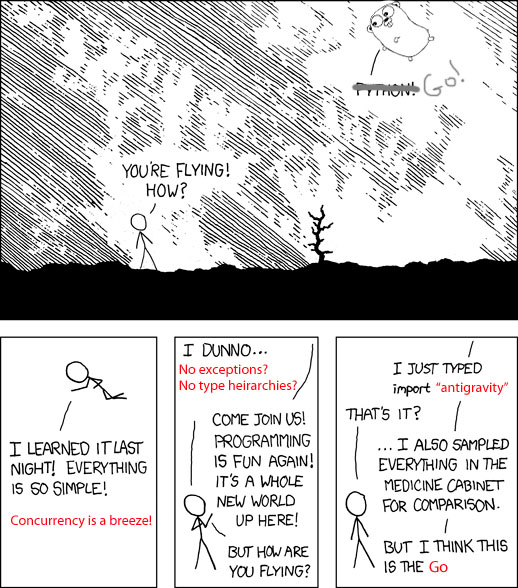
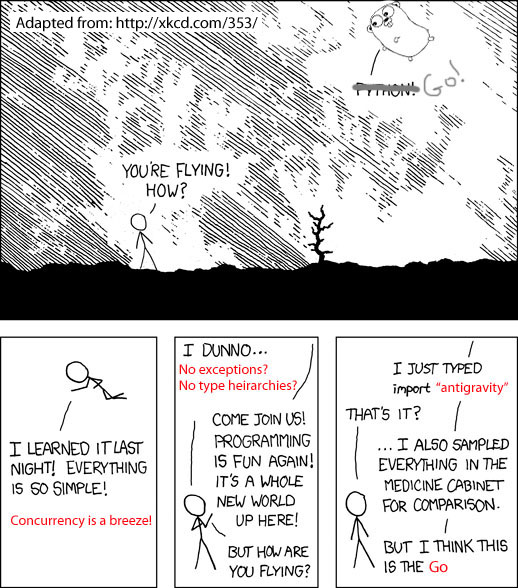
Feature complete migrating-from-pyton slides

Changed region(s): [[0.0, 0.0, 0.5251, 0.0612]]

diff --git a/migrating-from-python/buffer-struct.go b/migrating-from-python/buffer-struct.go
@@ -1,0 +1,9 @@
+// A Buffer is a variable-sized buffer of bytes with Read and Write methods.
+// The zero value for Buffer is an empty buffer ready to use.
+type Buffer struct {
+	buf       []byte            // contents are the bytes buf[off : len(buf)]
+	off       int               // read at &buf[off], write at &buf[len(buf)]
+	runeBytes [utf8.UTFMax]byte // avoid allocation of slice on each WriteByte or Rune
+	bootstrap [64]byte          // memory to hold 1st slice; helps small buffers avoid alloc
+	lastRead  readOp            // last read operation, so that Unread* can work correctly.
+}

diff --git a/migrating-from-python/constructors.go b/migrating-from-python/constructors.go
@@ -1,0 +1,25 @@
+package main
+
+import (
+	"bytes"
+	"fmt"
+	"os"
+)
+
+// START OMIT
+func main() {
+	// Named something like "New" by convention
+	b1 := bytes.NewBufferString("Hello ") // HL
+	fmt.Fprintf(b1, "world!\n")
+	fmt.Println(b1)
+
+	var b2 bytes.Buffer // no init needed
+	b2.Write([]byte("Hello again "))
+	fmt.Fprintf(&b2, "world!\n\n")
+	b2.WriteTo(os.Stdout)
+
+	b3 := bytes.Buffer{}
+	b3.WriteString("Goodbye\n")
+	b3.WriteTo(os.Stdout)
+}
+// END OMIT

diff --git a/migrating-from-python/zero-value.go b/migrating-from-python/zero-value.go
@@ -1,0 +1,17 @@
+package main
+
+import "fmt"
+
+// START OMIT
+type Foo struct {
+	Bar int
+	Baz string
+	Qux *string
+}
+
+func main() {
+	p := Foo{}
+	fmt.Printf("%#v", p)
+	p.Bar = nil
+}
+// END OMIT

diff --git a/migrating-from-python/constructors-2.go b/migrating-from-python/constructors-2.go
@@ -1,0 +1,13 @@
+package main
+
+import (
+	"fmt"
+)
+
+// START OMIT
+type P struct { X int; Y int }
+func main() {
+	p := P{X: 9}
+	fmt.Printf("%#v\n", p)
+}
+// END OMIT

diff --git a/migrating-from-python/zero-value.py b/migrating-from-python/zero-value.py
@@ -1,0 +1,7 @@
+#!/usr/bin/env python
+
+def is_len_valid(foo):
+	return bool(len(foo) % 2)
+
+print is_len_valid([1,2,3,4])
+print is_len_valid(None)

diff --git a/migrating-from-python/encapsulation.go b/migrating-from-python/encapsulation.go
@@ -1,0 +1,10 @@
+package main
+
+import "bytes"
+
+// START OMIT
+func main() {
+	var b bytes.Buffer
+	b.off = 100
+}
+// END OMIT
